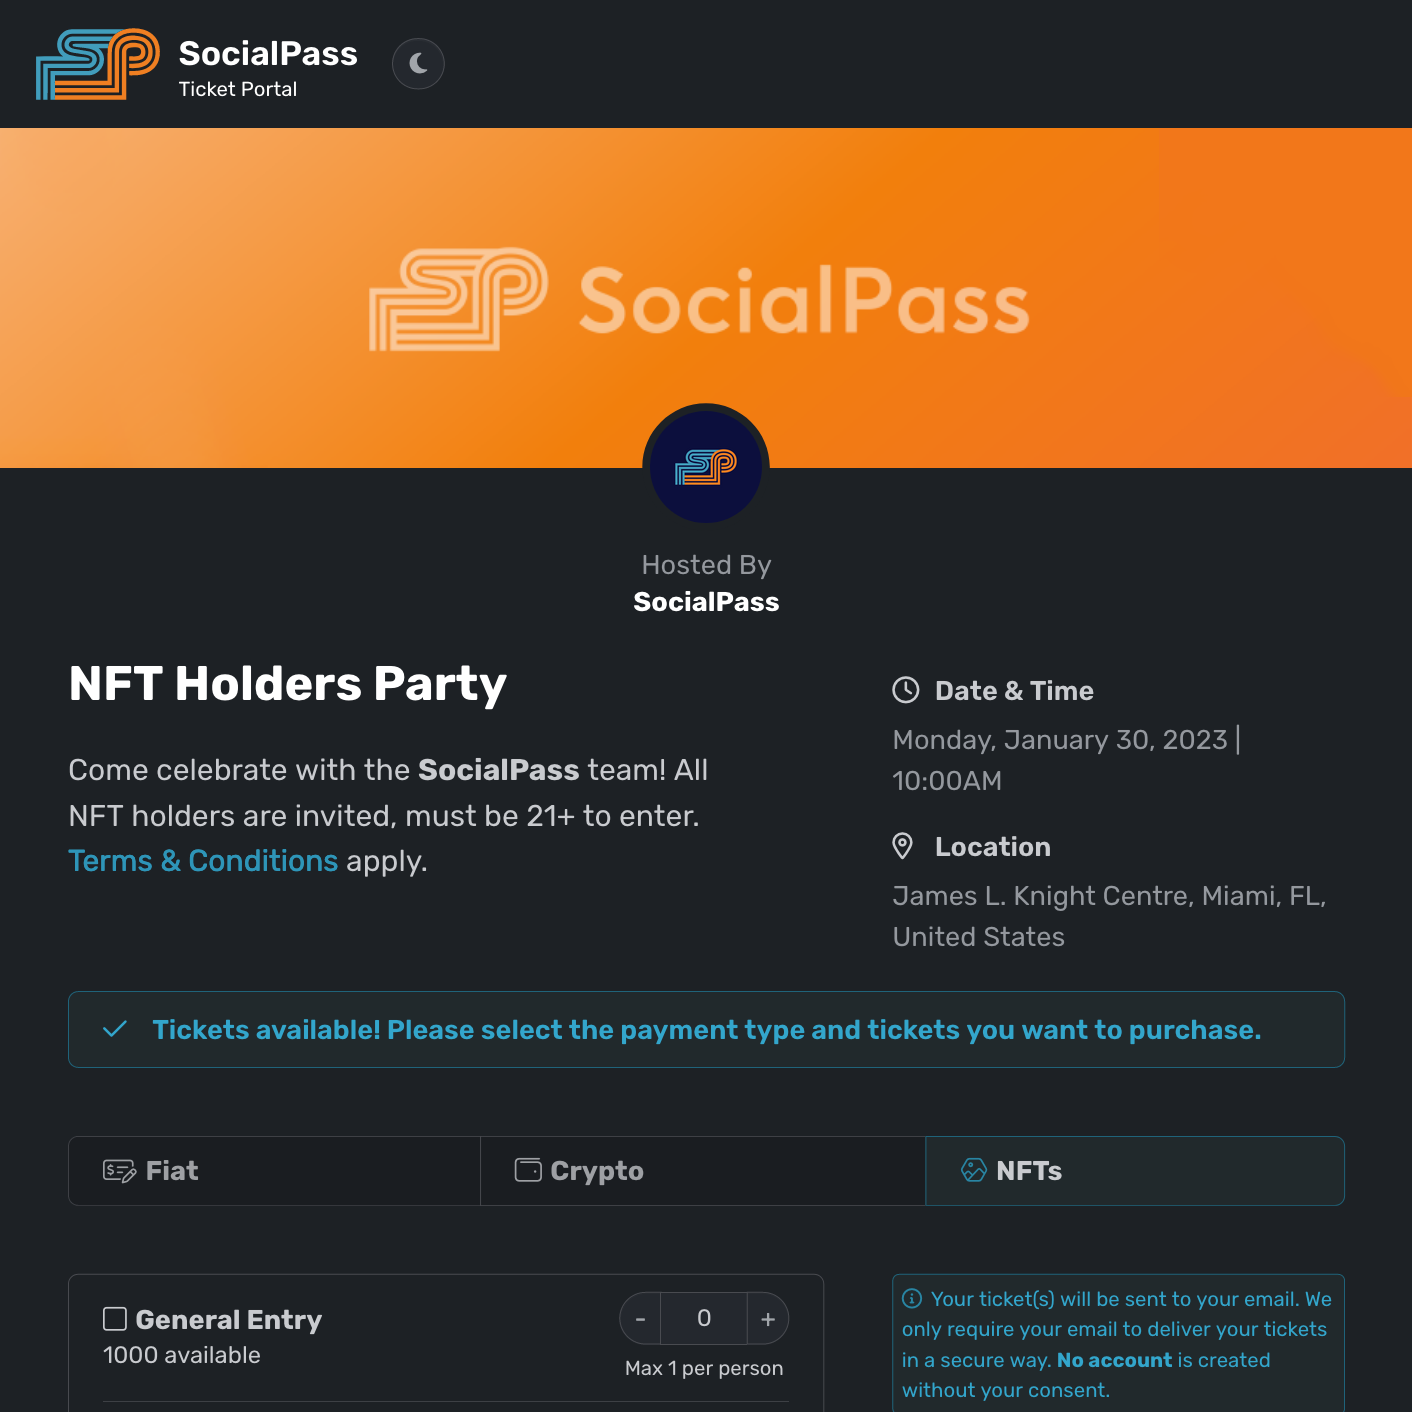
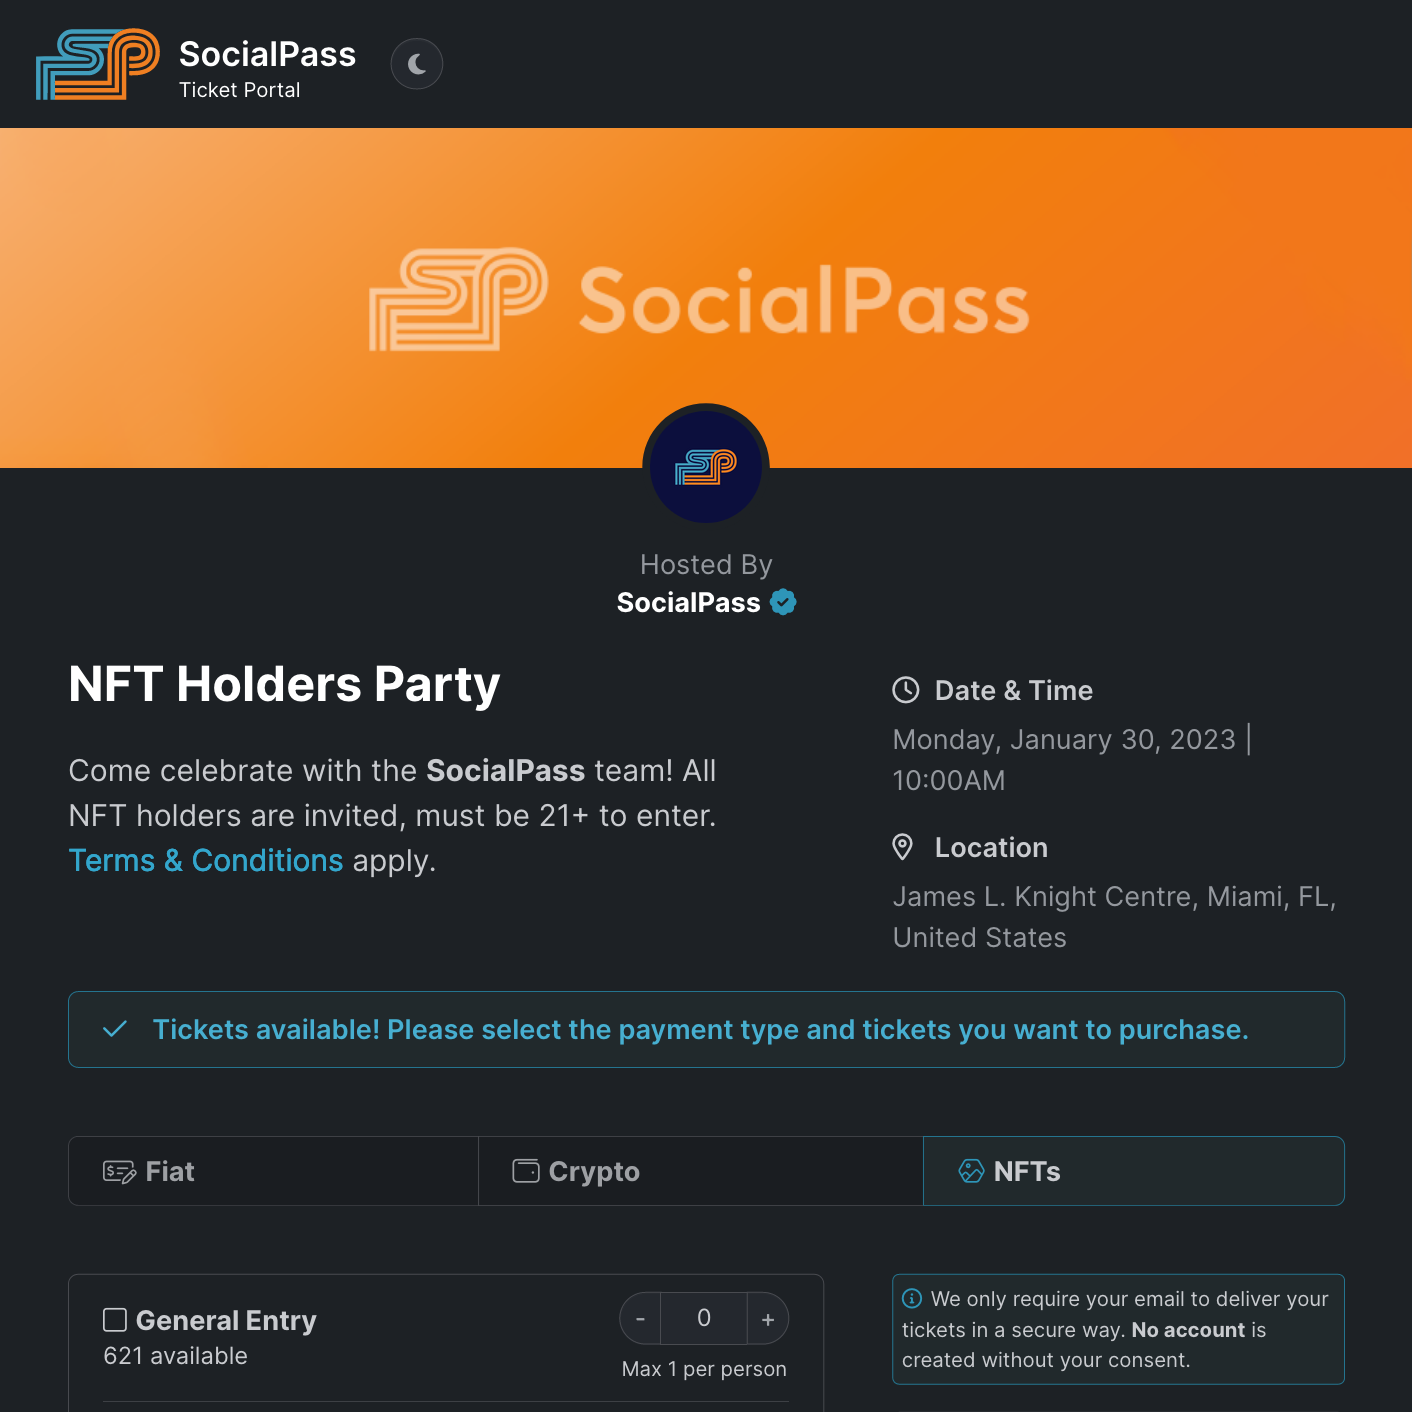
Update font, add live link to event list view

diff --git a/frontend/checkout-app/src/pages/Home/Home.tsx b/frontend/checkout-app/src/pages/Home/Home.tsx
@@ -383,10 +383,9 @@ export default function Home() {
             </div>
             <div className='col-md-5'>
               <div className='px-content pt-md-30 position-md-sticky top-0 start-0'>
-                <div className='alert alert-primary fs-base-n4 p-5 mt-10' role='alert'>
+                <div className='alert alert-primary text-base fs-base-n4 p-5 mt-10' role='alert'>
                     <i className='fa-regular fa-info-circle me-5 text-primary'></i>
-                    Your ticket(s) will be sent to your email. We only require 
-                    your email to deliver your tickets in a secure way.
+                    We only require your email to deliver your tickets in a secure way.
                     {' '}<strong>No account</strong> is created without your consent.
                   </div>
                 <form>

diff --git a/backend/templates/event_discovery/base.html b/backend/templates/event_discovery/base.html
@@ -20,11 +20,6 @@
 		<!-- SocialPass CSS theme -->
 		<link href="{% static 'socialpass-theme/socialpass-theme.css' %}" rel="stylesheet" />
 
-		<!-- Inter font -->
-		<link rel="preconnect" href="https://fonts.googleapis.com">
-		<link rel="preconnect" href="https://fonts.gstatic.com" crossorigin>
-		<link href="https://fonts.googleapis.com/css2?family=Inter:wght@400;600;700&display=swap" rel="stylesheet">
-
 		<!-- Font Awesome 6 -->
 		<script src="https://kit.fontawesome.com/e222fd7f73.js" crossorigin="anonymous"></script>
 
@@ -79,7 +74,6 @@
 					hsla(var(--secondary-color-hsl), 0.1),
 					transparent, transparent, transparent
 				);
-				--base-font-family: "Inter", sans-serif;
 			}
 
 			.dark-mode {

diff --git a/backend/templates/dashboard/event_list.html b/backend/templates/dashboard/event_list.html
@@ -158,6 +158,15 @@
 						<strong>Location: </strong>
 						<span class="text-muted">{{ event.localized_address_display }}</span>
 					</div>
+					{% if event.state == event.StateStatus.LIVE %}
+						<div class="fs-base-n2">
+							<strong>Live: </strong>
+							<a href="{% url 'discovery:details' event.id event.slug %}" class="fw-bold antialiased" target="_blank">
+								Public Page
+								<i class="fa-regular fa-external-link ms-5"></i>
+							</a>
+						</div>
+					{% endif %}
 				</div>
 				<!-- Name, date, location end -->
 

diff --git a/backend/static/socialpass-theme/socialpass-theme.css b/backend/static/socialpass-theme/socialpass-theme.css
@@ -8,12 +8,12 @@
  * The above notice must be included in its entirety when this file is used.
  */
 
-@import url("https://fonts.googleapis.com/css2?family=Rubik:wght@400;600;700&display=swap");
+@import url("https://fonts.googleapis.com/css2?family=Inter:wght@400;600;700&display=swap");
 
 :root {
     /* Font related (sizes, weights, family, etc.) */
 
-    --base-font-family: "Rubik", sans-serif;
+    --base-font-family: "Inter", sans-serif;
     --base-font-size: 1.6rem;
     --small-font-size: 1.4rem;
     --large-font-size: 1.8rem;
